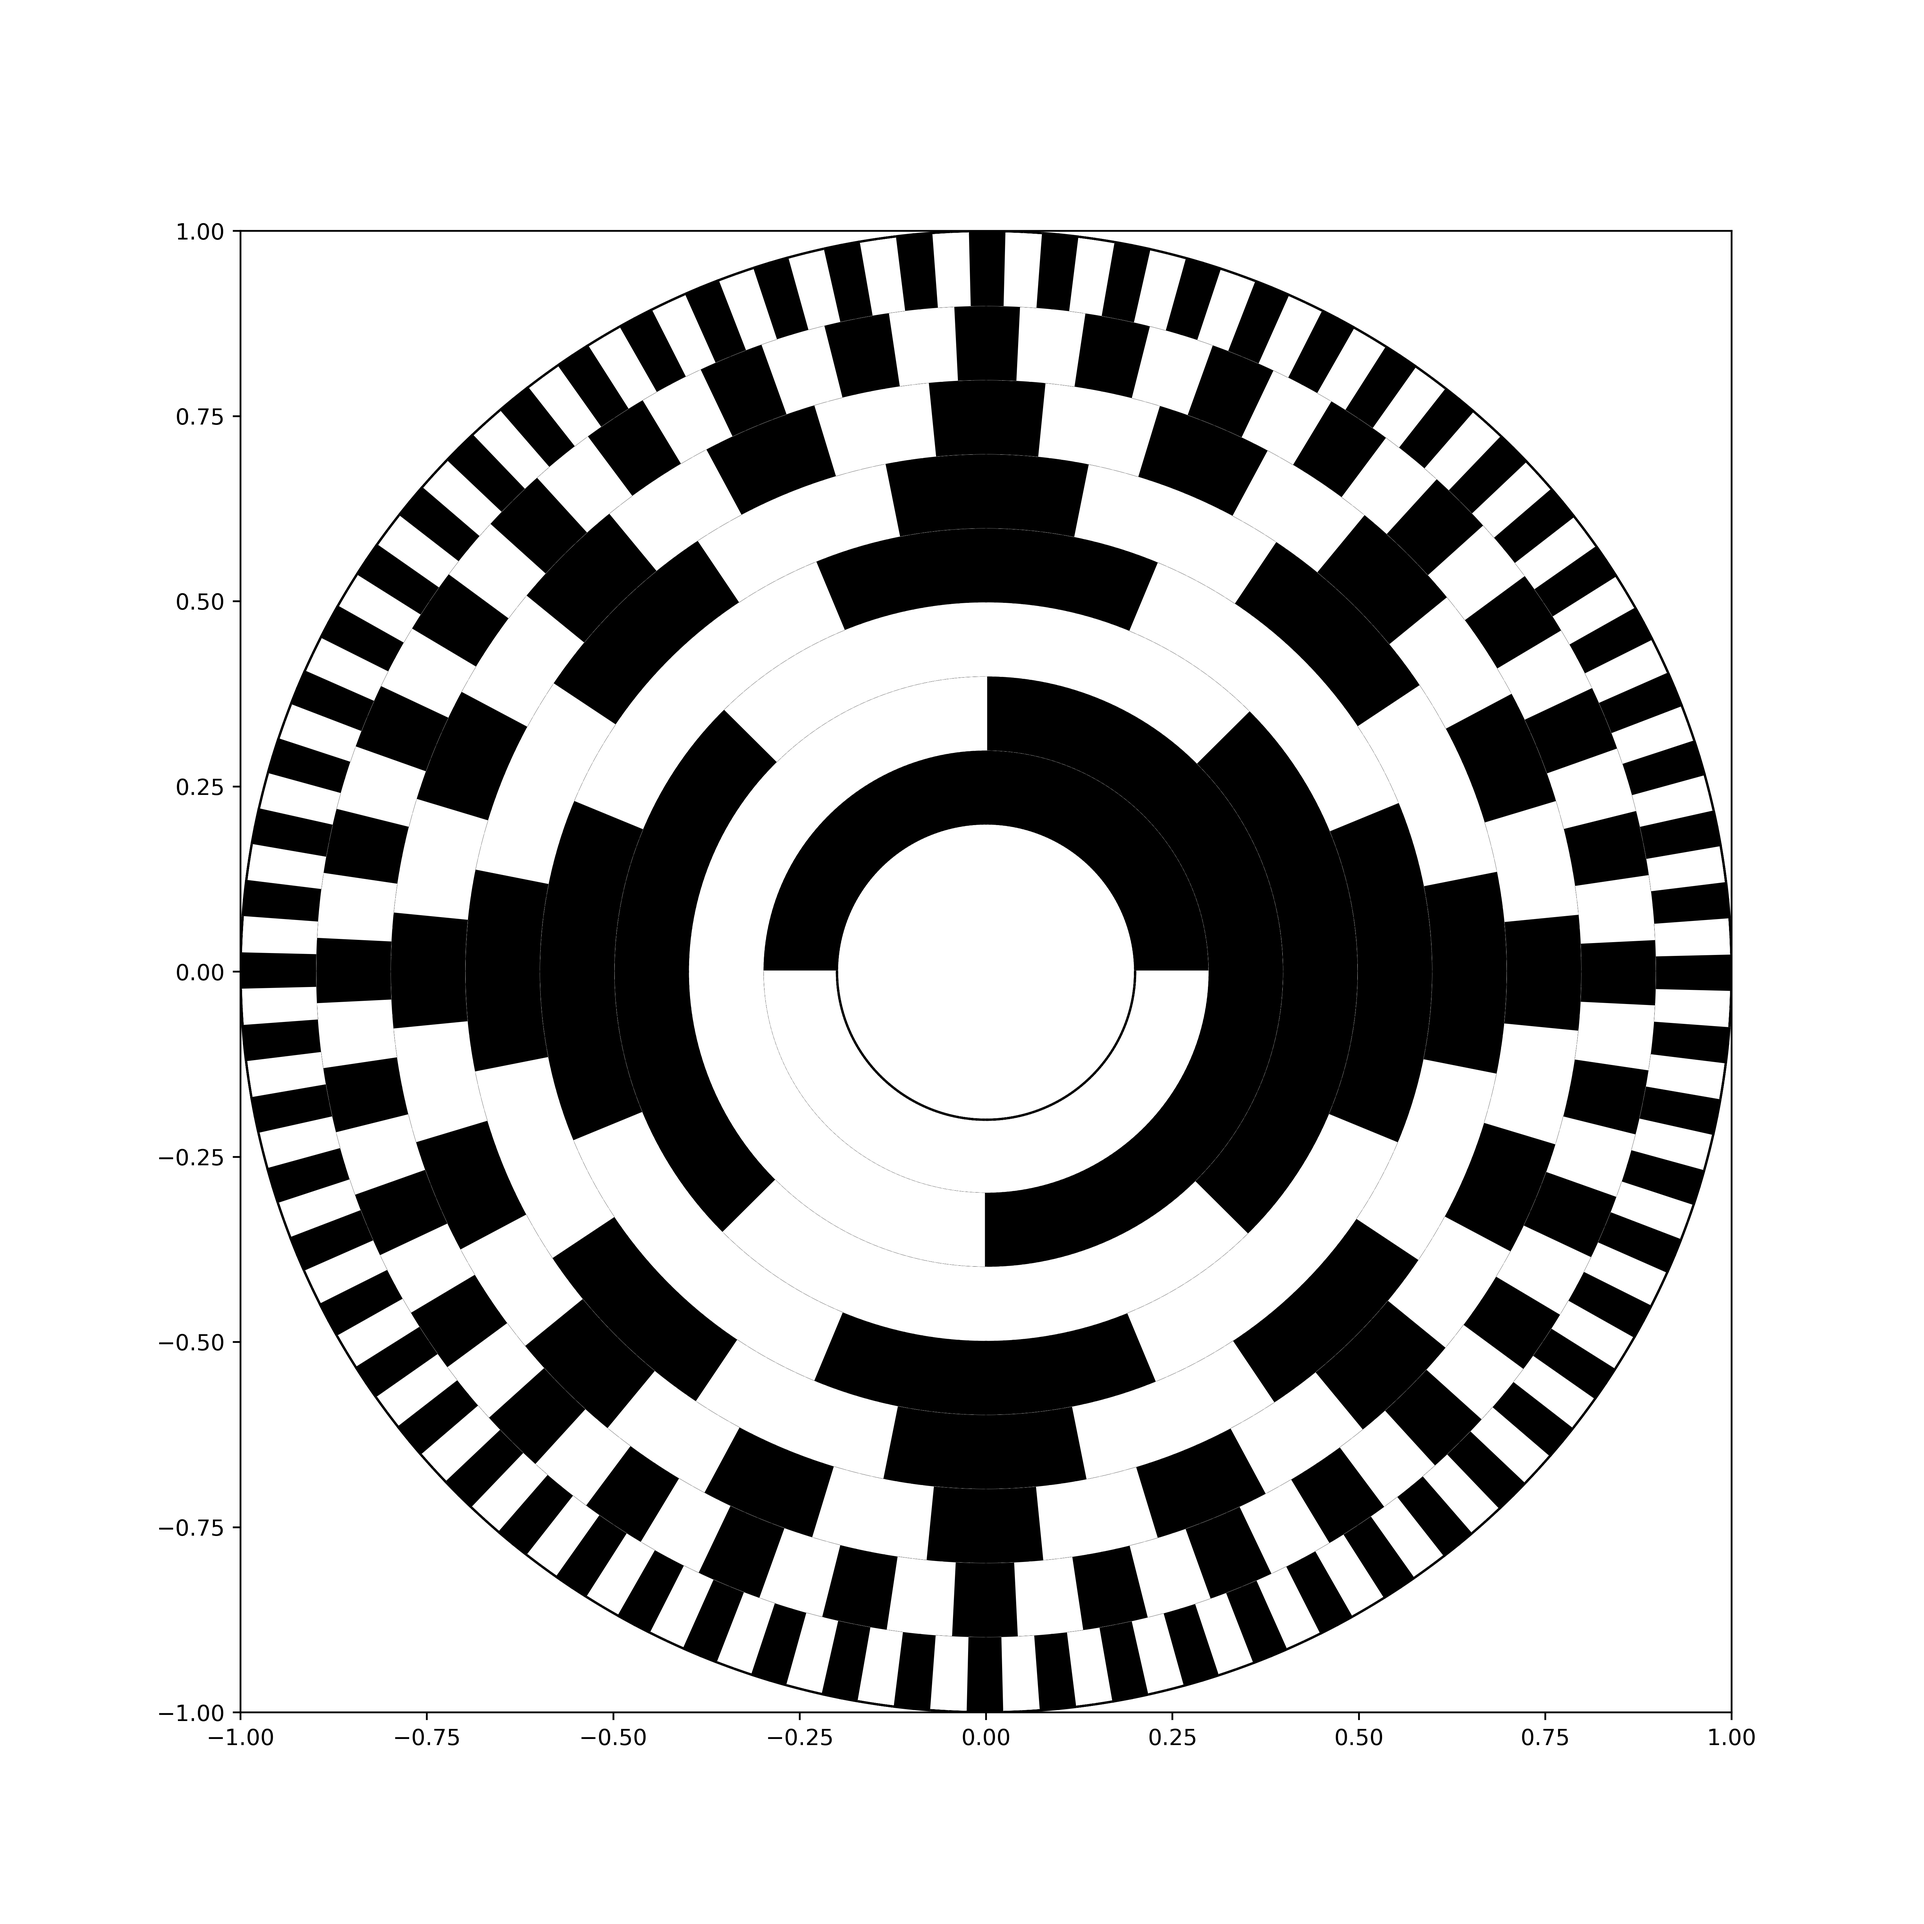
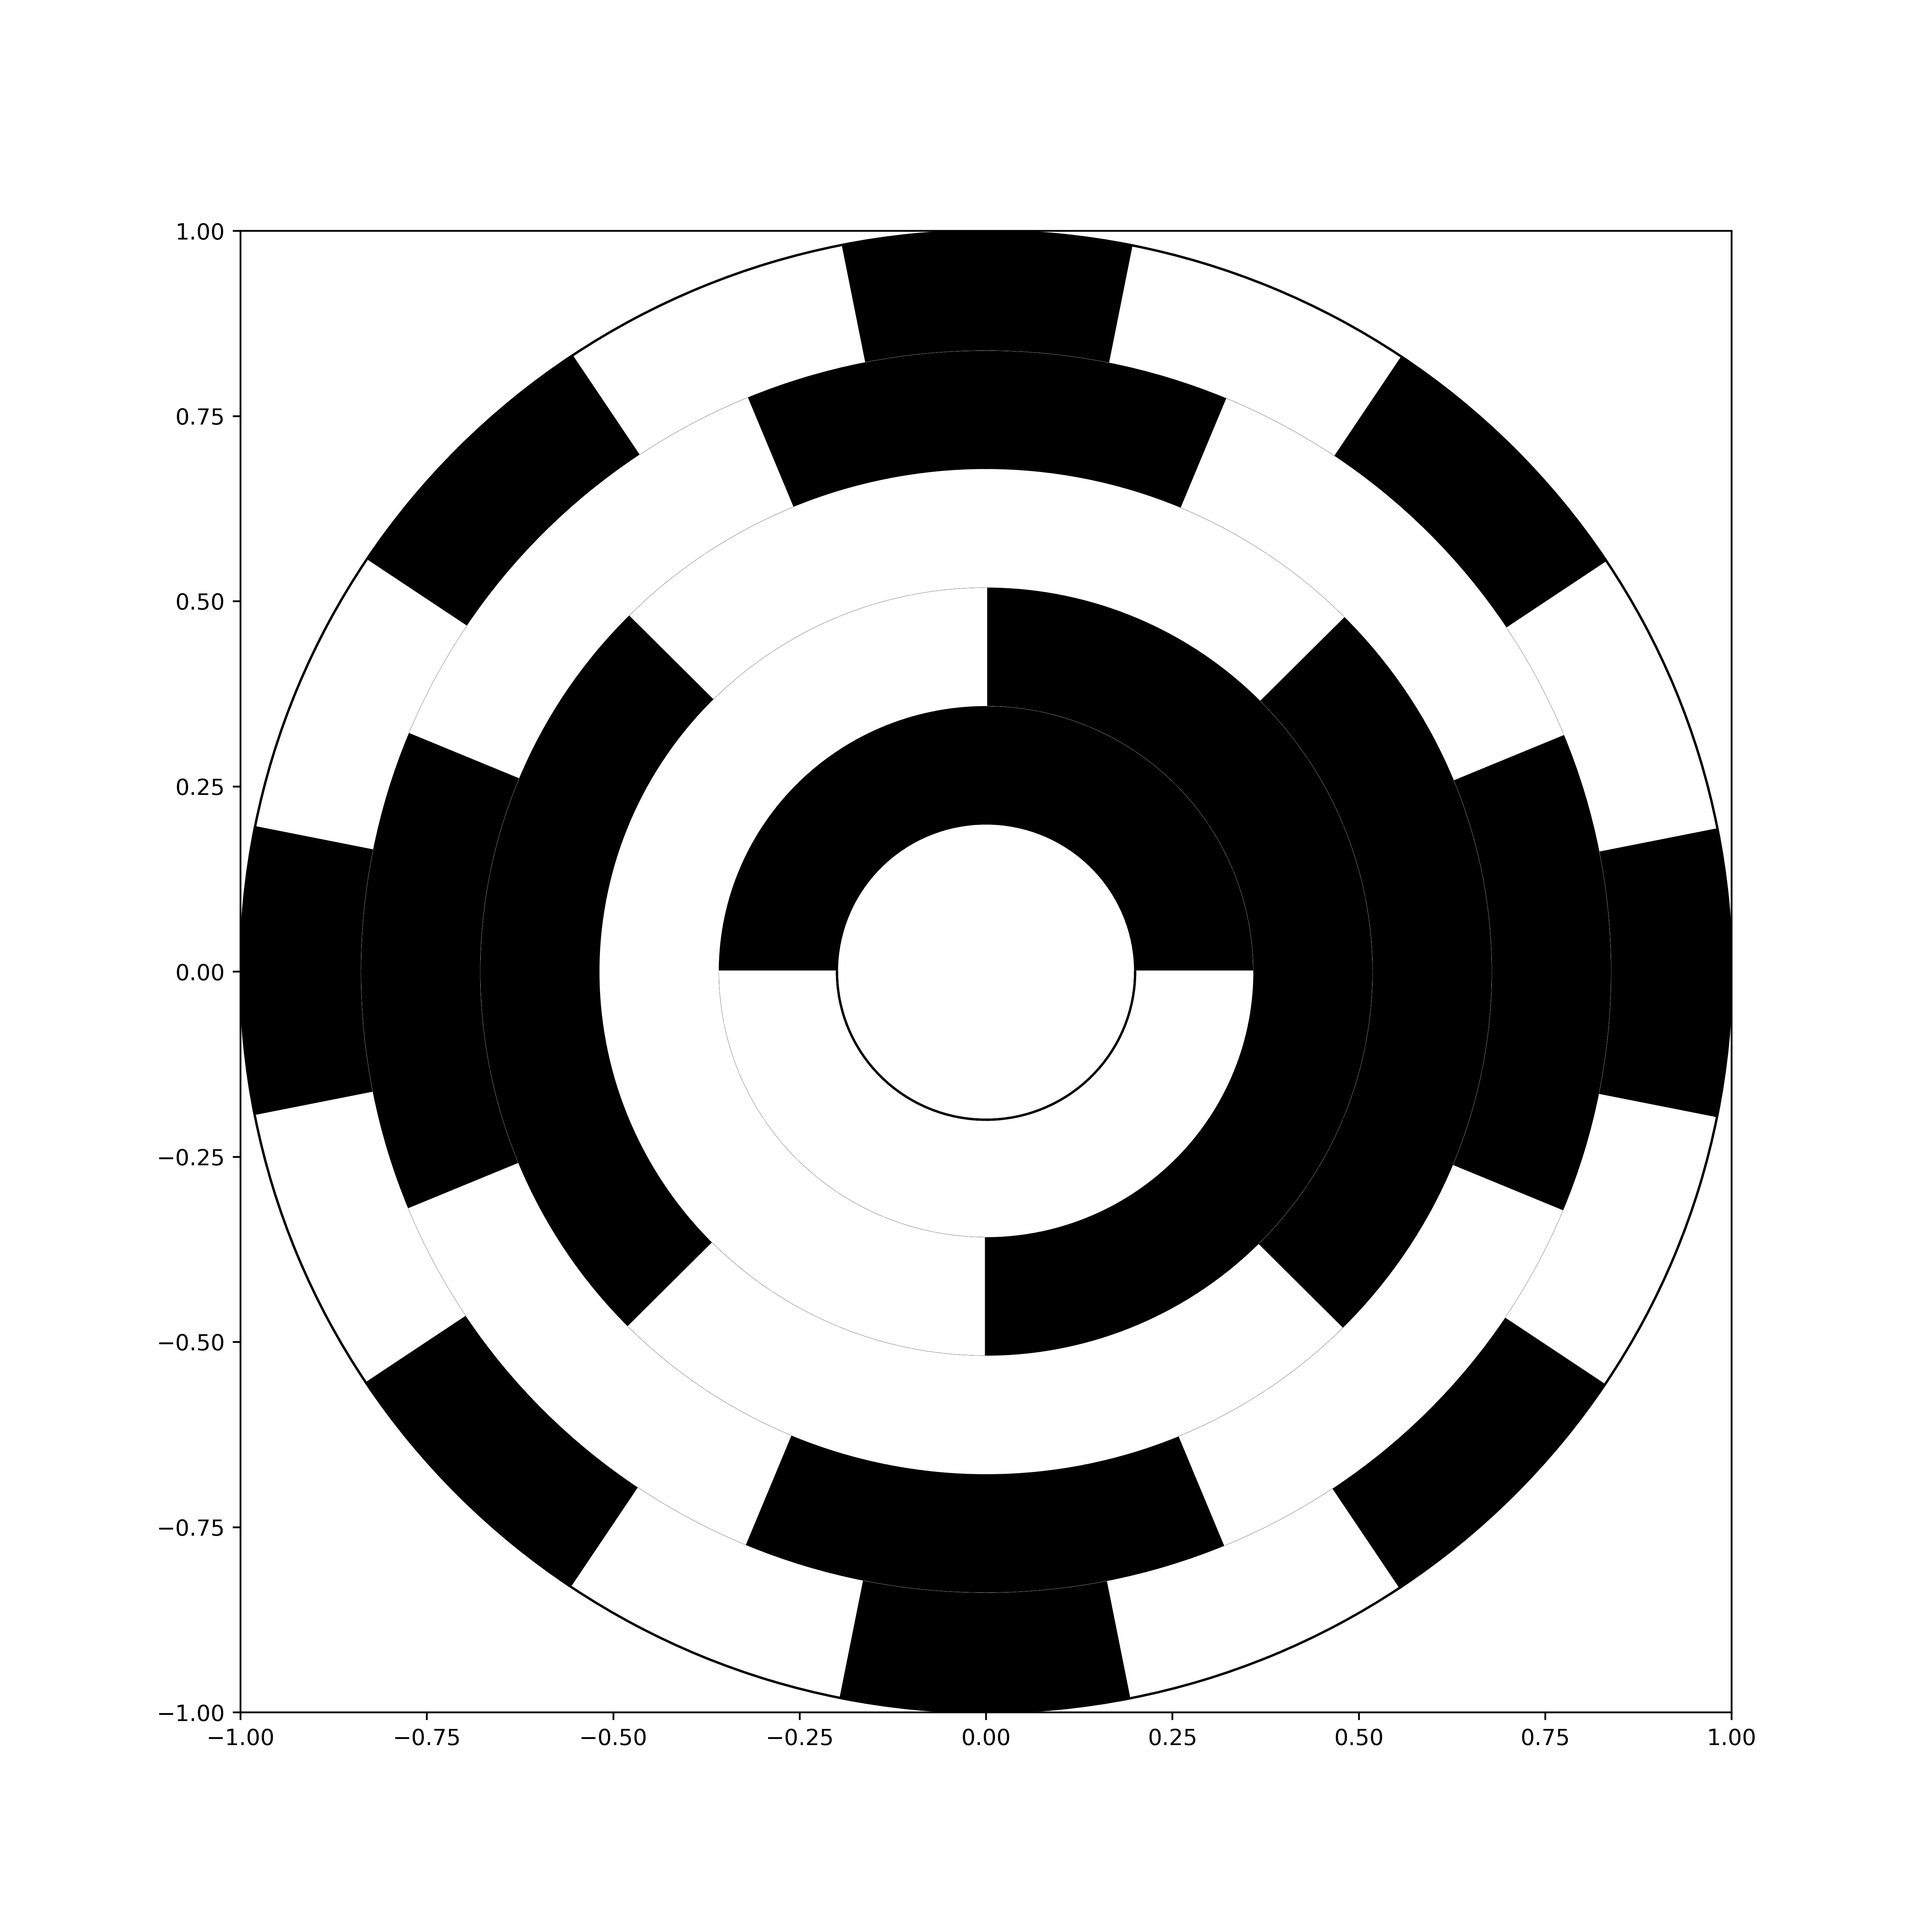
Commit changes

Changed region(s): [[0.1247, 0.1247, 0.9038, 0.9038]]

diff --git a/rotaryEncoderGrayCode/RotaryEncoderDiscFactory.py b/rotaryEncoderGrayCode/RotaryEncoderDiscFactory.py
@@ -74,7 +74,7 @@ ax.set_xlim(-1, 1)
 ax.set_ylim(-1, 1)
 
 next = True
-wp = WedgeProvider(8, 0.2, 1.0)
+wp = WedgeProvider(5, 0.2, 1.0)
 while (next):
     next = wp.nextWedge(ax)
 
